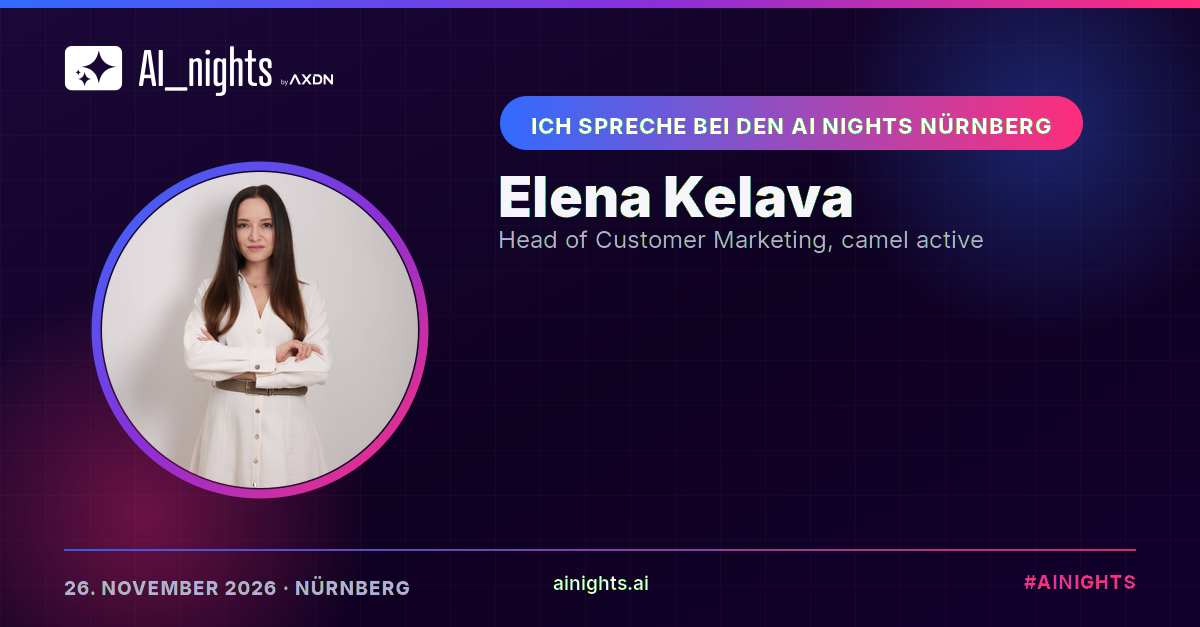
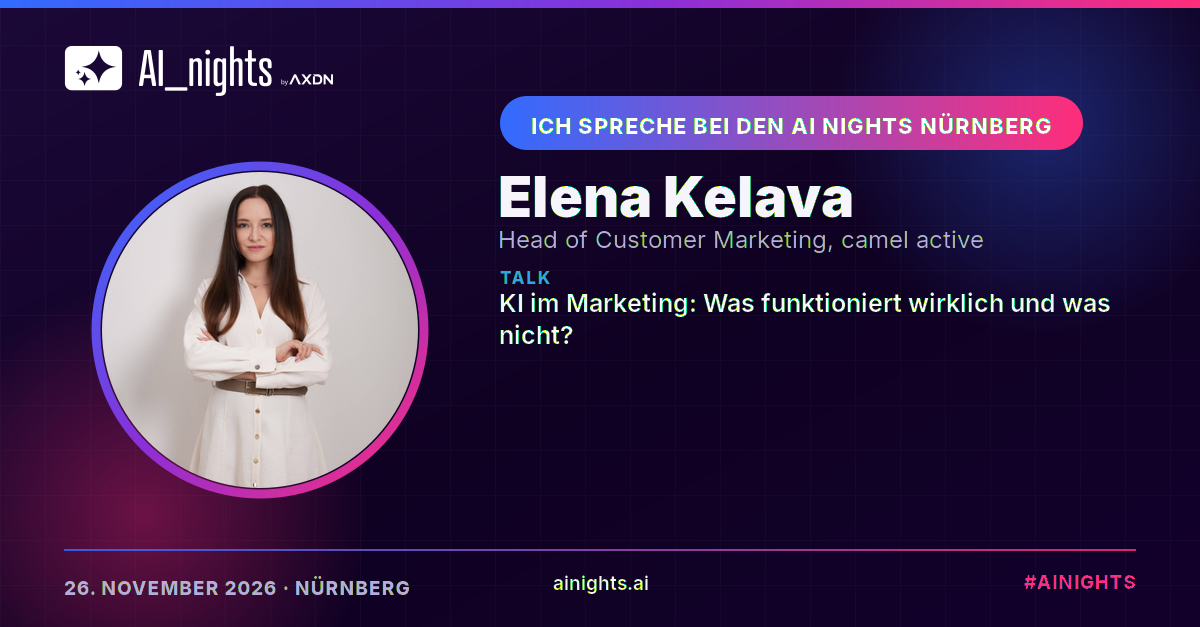
Oliver Vollrath & Florian Fuchs als Slot 3 bei AI Nights München #01 (#58)
* Oliver Vollrath & Florian Fuchs als Slot 3 bei AI Nights Muenchen #01

Gemeinsamer Speaker-Eintrag (wie bei Tim Junge & Markus Utomo) mit Bio,
Themen, Key Takeaways und beiden LinkedIn-Profilen aus Airtable, dazu die
Session "KI im Innovationsmanagement: Was sie heute leistet - und was
Unternehmen noch bremst" im 20:00-Slot. Damit hat Muenchen wieder drei
Speaker.

Nebenbei die Agenda-Reihenfolge korrigiert: Roland Gollas Session stand hinter
beiden Pausen, sie liegt jetzt zwischen ihnen (18:00 Peter, Pause, Roland,
Pause, 20:00 Vollrath/Fuchs).

Noch offen: Das gemeinsame Foto liegt nur in Airtable und laesst sich aus
dieser Session nicht laden - Profil und Grafiken warten darauf.

Claude-Session: https://claude.ai/code/session_01EosivGxKPWh3eY9zup7PpV

* Foto von Oliver Vollrath und Florian Fuchs ergaenzen

Gemeinsames Portrait unter public/img/speaker/ abgelegt und in Speaker- und
Session-Datensatz verlinkt; die Announcement-Grafiken sind damit neu erzeugt
und zeigen statt des Initialen-Platzhalters die beiden.

Das Original ist 616x924 gross, liegt also unter der Schwelle von 1024px -
optimize-images legt dafuer bewusst keine WebP-Varianten an, imgVariant faellt
auf das 40 KB kleine Original zurueck.

Claude-Session: https://claude.ai/code/session_01EosivGxKPWh3eY9zup7PpV

* Ankuendigungspost fuer Oliver Vollrath und Florian Fuchs

Slot 3 der Muenchner Premiere: Blogpost zu "KI im Innovationsmanagement: Was
[…]

Changed region(s): [[0.4008, 0.4242, 0.925, 0.5455]]

diff --git a/src/content/blog/ki-im-innovationsmanagement-vollrath-fuchs-ai-nights-muenchen-01.md b/src/content/blog/ki-im-innovationsmanagement-vollrath-fuchs-ai-nights-muenchen-01.md
@@ -1,0 +1,46 @@
+---
+title: 'KI im Innovationsmanagement: Was sie heute leistet – Oliver Vollrath & Florian Fuchs bei den AI Nights München #01'
+description: 'Speaker-Ankündigung für die AI Nights München #01: Oliver Vollrath und Florian Fuchs (VEND consulting) zeigen anhand einer Studie mit 150 Fach- und Führungskräften, wo generative KI im Innovationsmanagement wirklich wirkt.'
+pubDate: 2026-09-07
+author: 'AI Nights Team'
+category: speaker-announcements
+image:
+  src: '/img/speaker/oliver-vollrath-florian-fuchs.jpg'
+  alt: 'Oliver Vollrath und Florian Fuchs, VEND consulting'
+tags:
+  - speaker-ankuendigung
+  - muenchen
+  - innovation
+  - studie
+---
+
+Das Lineup für die Premiere der AI Nights in München ist komplett! Den dritten Slot übernehmen Oliver Vollrath und Florian Fuchs von der VEND consulting GmbH — mit belastbaren Zahlen statt Bauchgefühl.
+
+## Worum geht es in diesem Talk?
+
+Mehr Ideen, schnellere Prozesse, bessere Entscheidungen: Die Erwartungen an KI im Innovationsmanagement sind hoch. Ihre Studie mit 150 Fach- und Führungskräften aus unterschiedlichen Branchen zeigt, dass bereits zwei Drittel der Befragten generative KI im Innovationsmanagement einsetzen. Regelmäßige Nutzung bedeutet aber noch keine systematische Verankerung.
+
+Im Talk geht es zuerst um die Herausforderungen, die Innovationsverantwortliche wirklich beschäftigen: knappe Ressourcen, die schwierige Messbarkeit des Wertbeitrags, zu wenig Daten in Entscheidungen. Dann wird sichtbar, wo ein Spannungsfeld liegt — kreative Unterstützung ist ein zentraler Einsatzgrund, der stärkste wahrgenommene Nutzen ist aber die Zeitersparnis. Die Nutzung konzentriert sich auf frühe Phasen wie Ideenentwicklung, Recherche und Konzeptarbeit; näher an Umsetzung und Validierung nimmt sie ab. Anhand von fünf Nutzungstypen — von Beobachtenden bis Gestaltenden — geben die beiden Orientierung für den eigenen Entwicklungsstand.
+
+## Das nimmst du mit
+
+- Nutzung ist noch keine Verankerung: Einzelne erfolgreiche Anwendungen brauchen klare Verantwortlichkeiten, gemeinsame Arbeitsweisen und eine Einbindung in den Innovationsprozess
+- Zeitersparnis ist der stärkste wahrgenommene Nutzen — ob daraus bessere Innovationsergebnisse entstehen, muss gesondert bewertet werden
+- Vertrauen in Ergebnisse, geeignete Daten und interne Kompetenzen sind zentrale Voraussetzungen für einen breiteren Einsatz
+- Der nächste sinnvolle Schritt hängt vom Entwicklungsstand ab: gezielt erproben, bewährte Anwendungen verbreiten oder das Zusammenspiel mehrerer Anwendungen steuern
+
+## Über Oliver Vollrath & Florian Fuchs
+
+Oliver Vollrath und Florian Fuchs begleiten bei der VEND consulting GmbH Unternehmen dabei, ihre Innovationsfähigkeit zu stärken und die Potenziale von Daten und KI zu nutzen. Oliver bringt als geschäftsführender Partner langjährige Beratungs- und Lehrerfahrung in Innovationsmanagement, Business Agility und OKR ein, während Florian als Senior Consultant seine Erfahrung aus dem Start-up- und Softwareumfeld mit einem Blick für organisatorische Veränderungen und moderne Zusammenarbeit verbindet.
+
+[Zum Speaker-Profil von Oliver Vollrath & Florian Fuchs →](/speaker/oliver-vollrath-florian-fuchs/)
+
+## AI Nights München | INSPIRE ✨ #01 - Premiere! auf einen Blick
+
+- 📅 Dienstag, 17. November 2026
+- 🕐 Einlass ab 17:00 Uhr
+- 📍 Design Offices München, München Campus Königsplatz
+
+Wie immer gilt: 100 % KI-Fokus, kurze Sessions, entspannte Pausen mit Drinks & Snacks — und genug Raum für echte Gespräche.
+
+[Alle Infos & Tickets zum Event →](/events/ai-nights-muenchen-01/)
